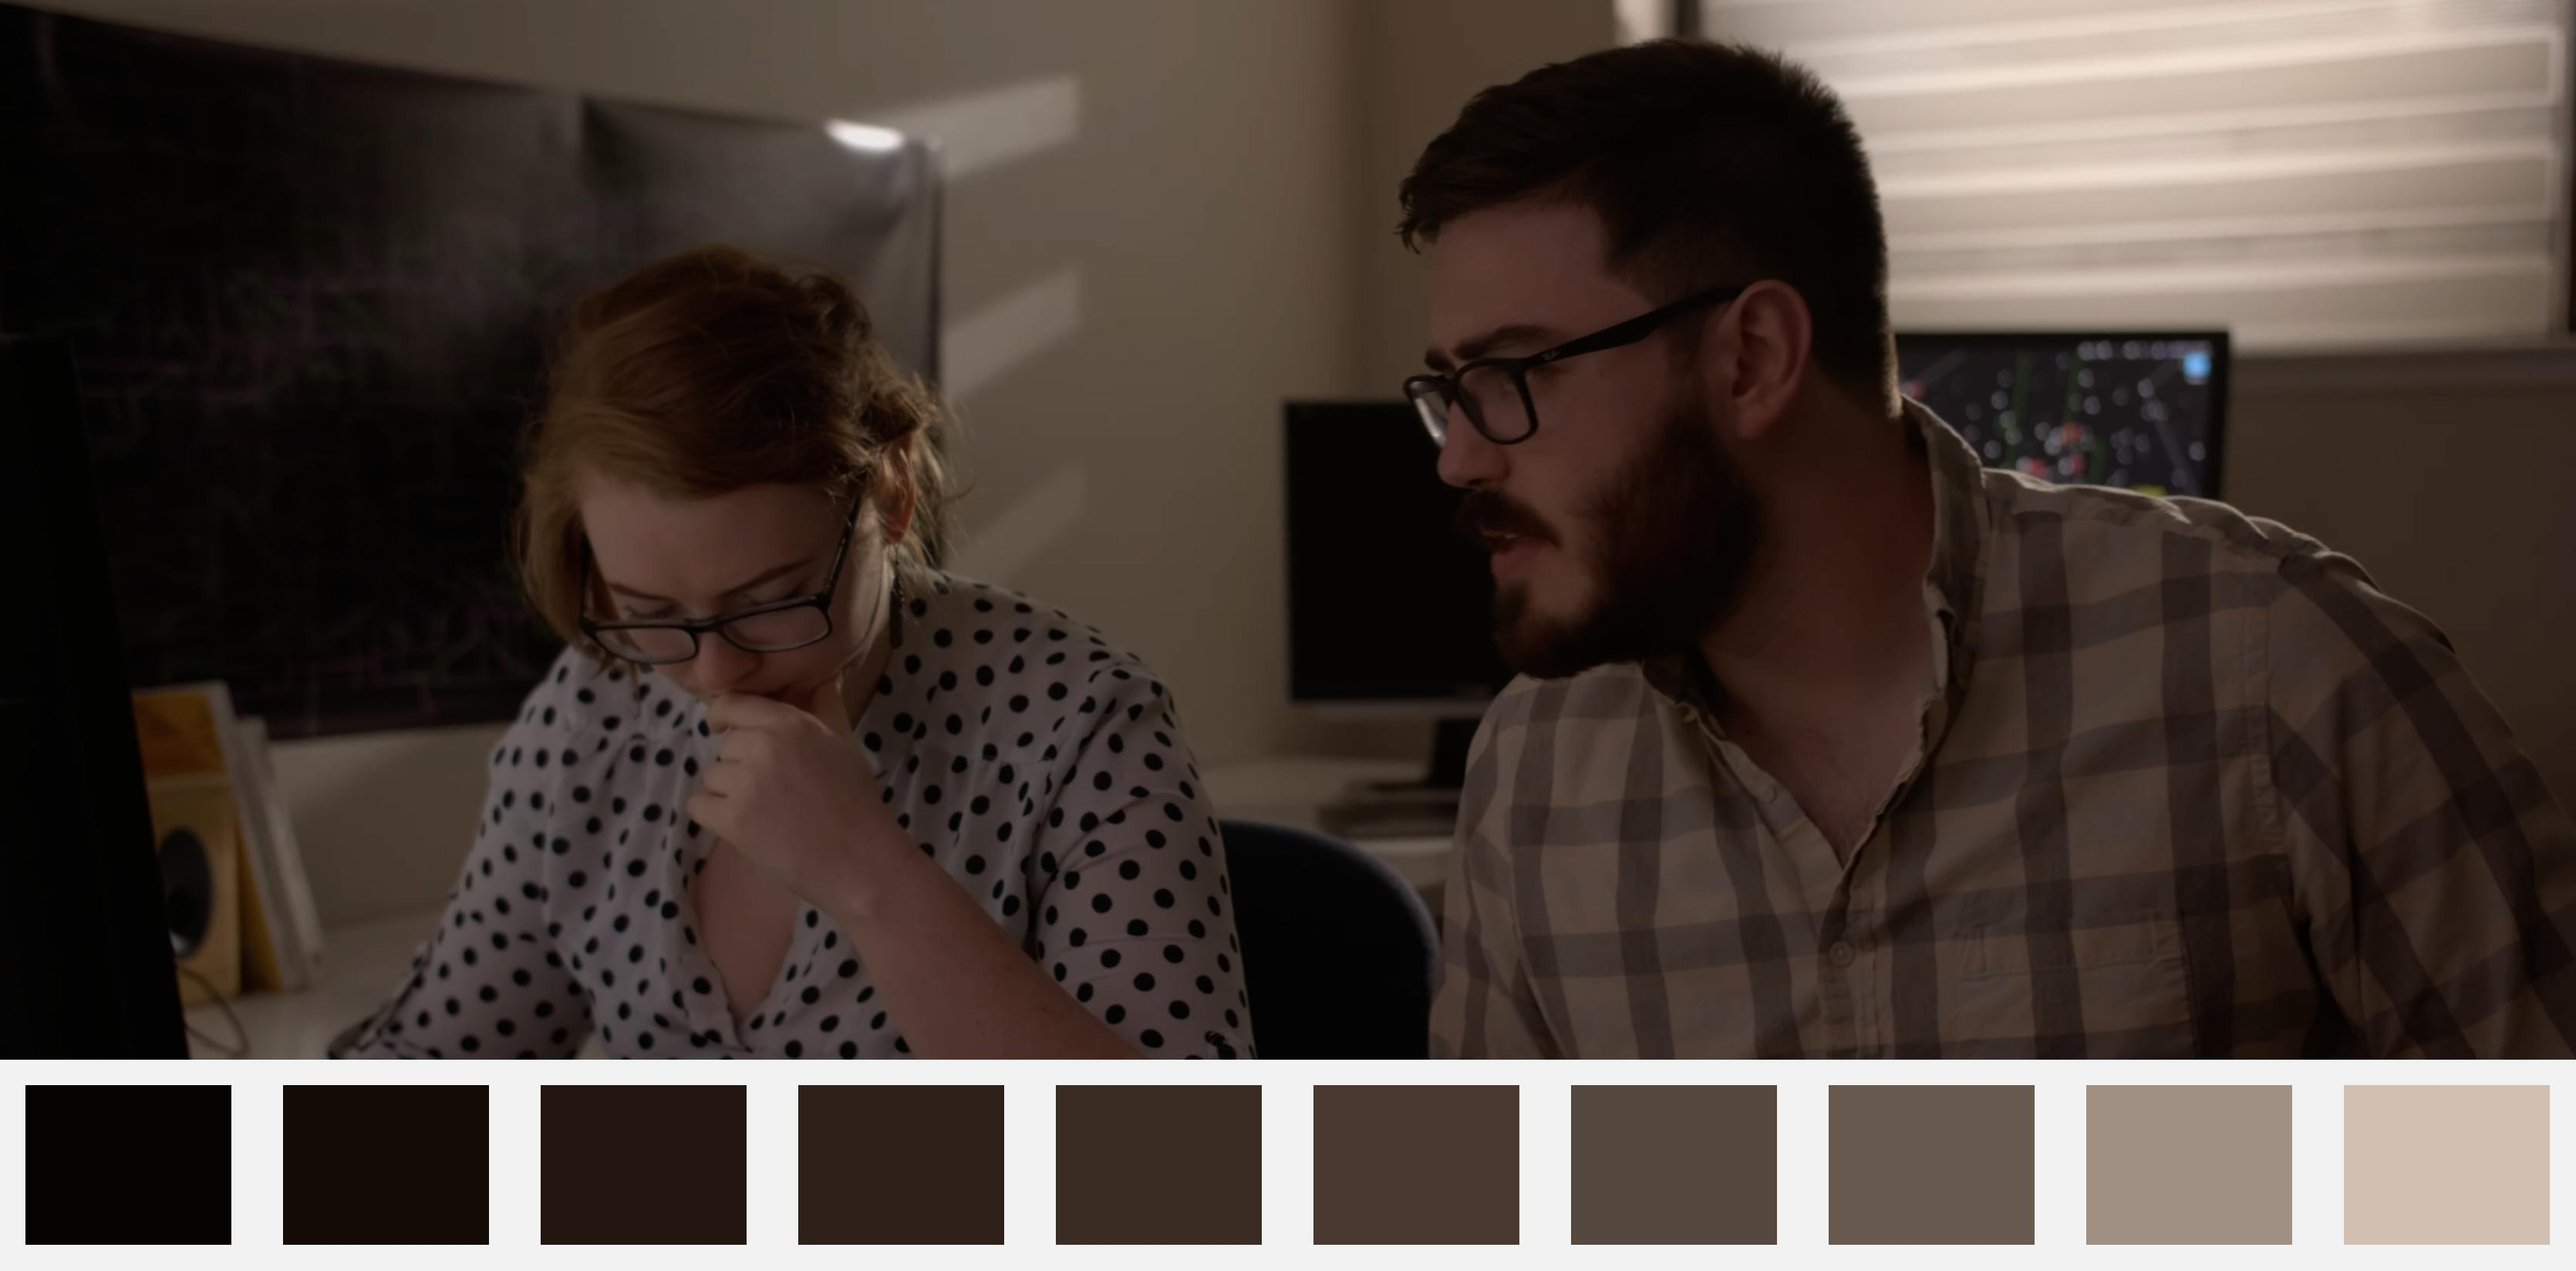
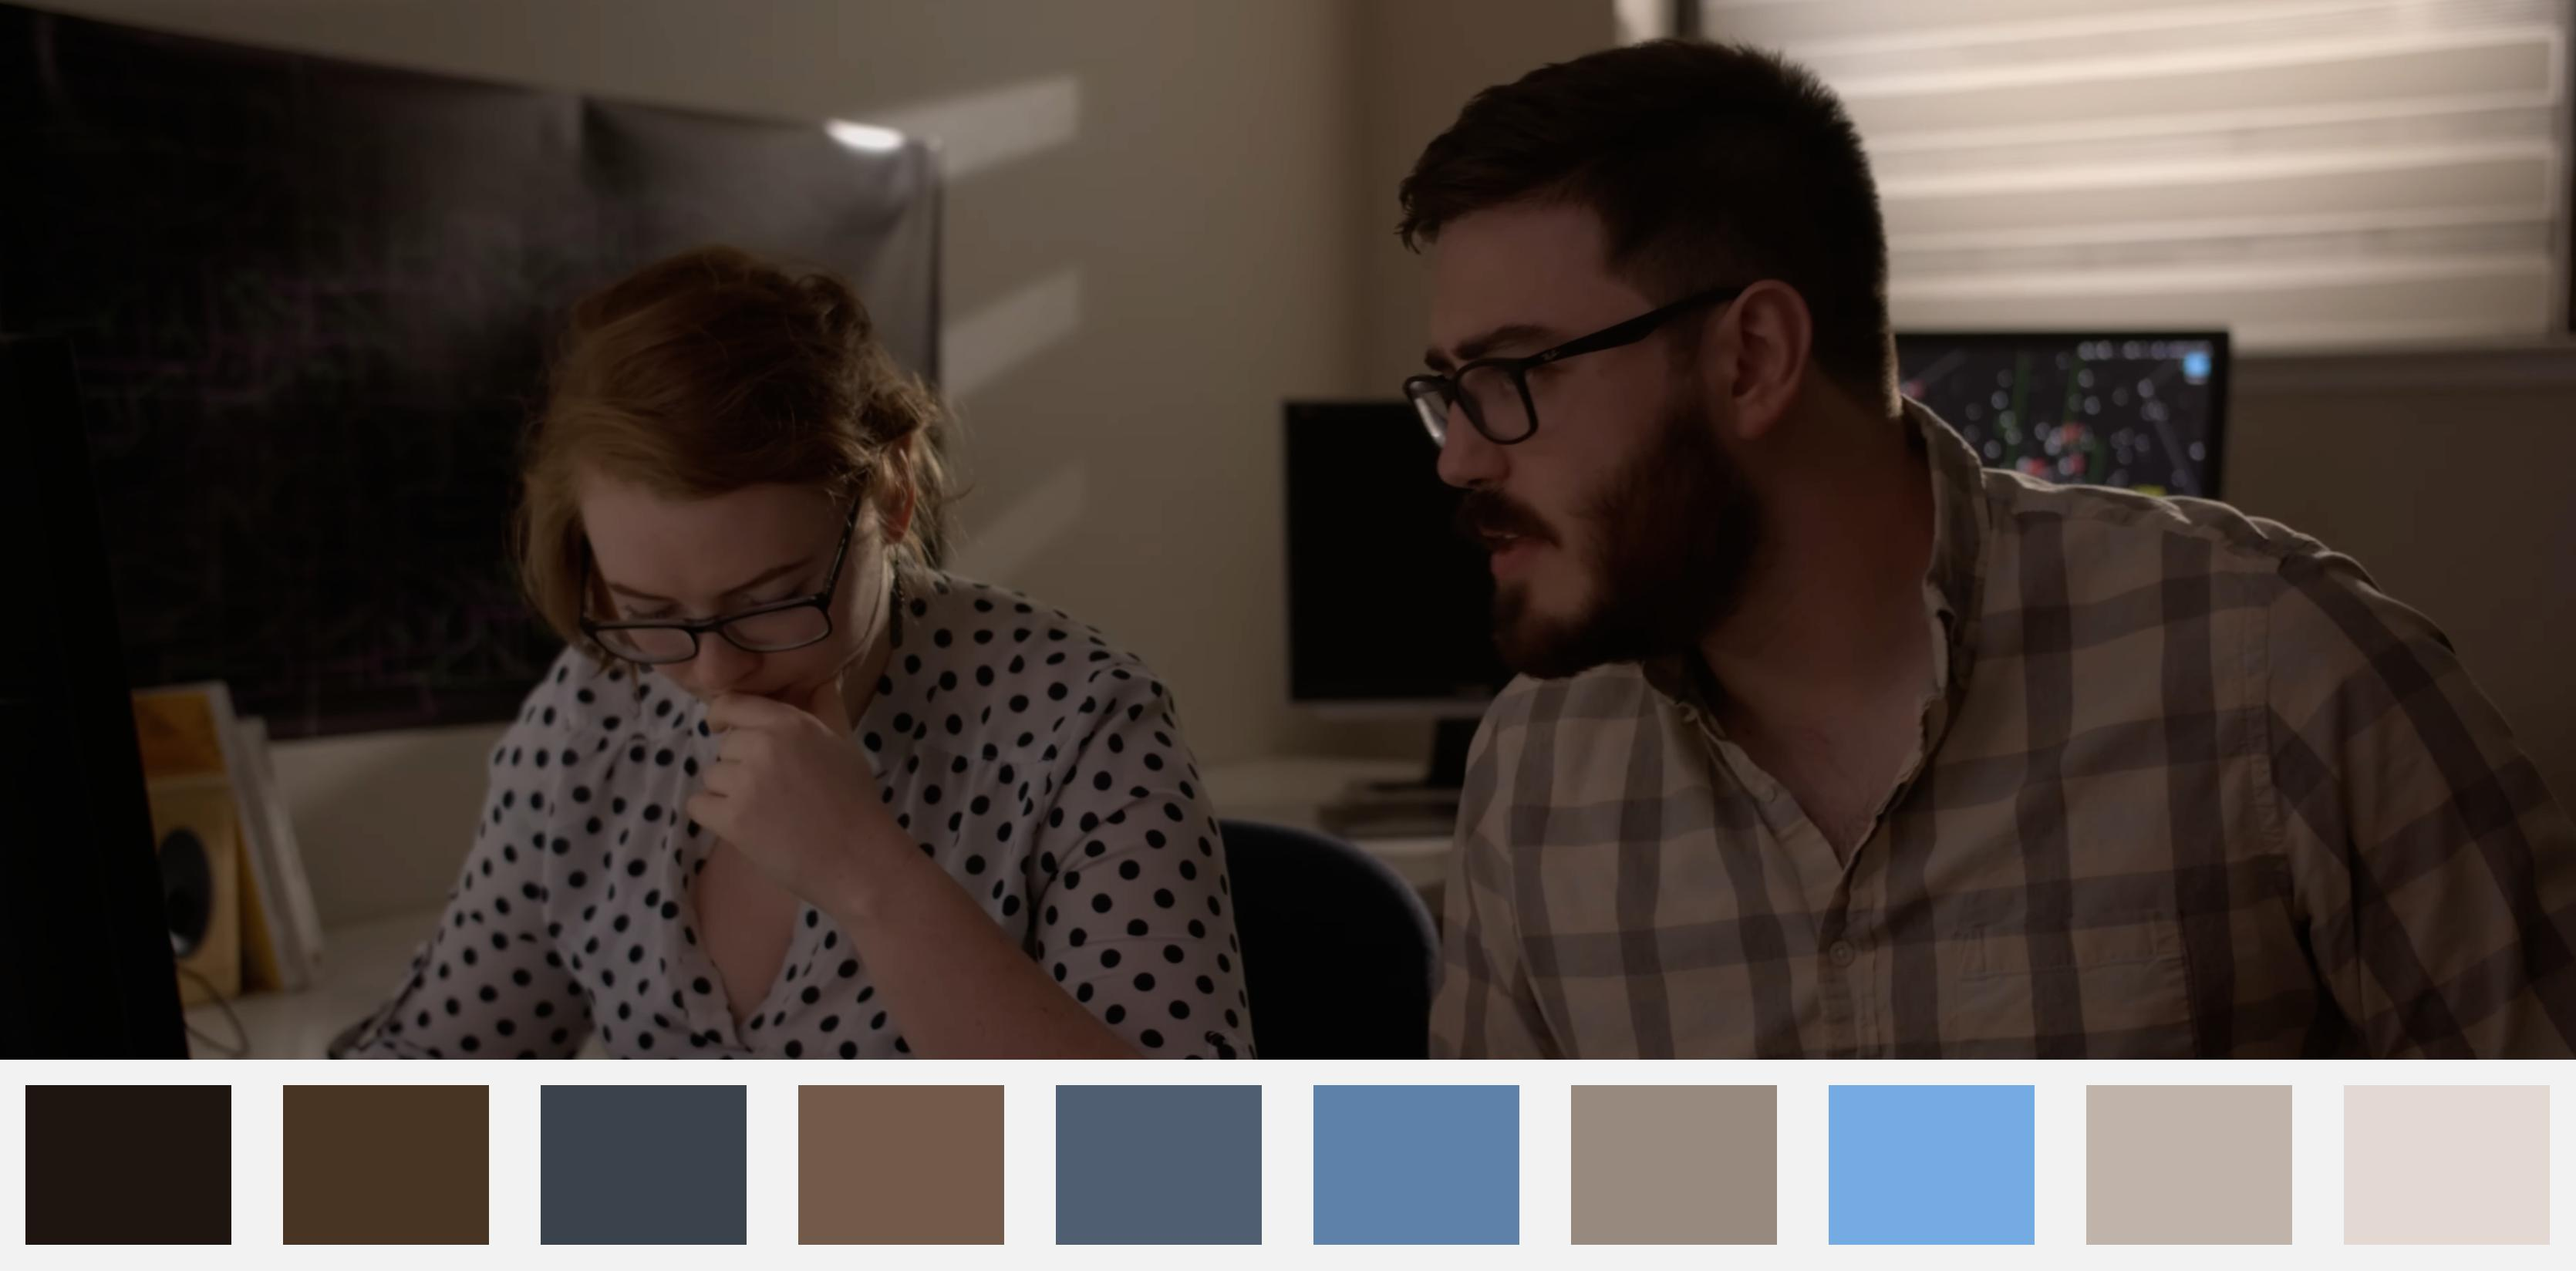
added some more ways to sample the colors, just for my future reference

Changed region(s): [[0.0, 0.8356, 0.9964, 0.9903]]

diff --git a/color_palette.py b/color_palette.py
@@ -1,7 +1,31 @@
 import imageio
 from sklearn.cluster import KMeans
+from sklearn.neighbors import KDTree
 import argparse
 import numpy as np
+import colorsys
+
+def subsample_points_by_space(points, side_dim):
+	# Make KD-Tree from points
+	nn = KDTree(points)
+	# Create num_samples query points evenly spaced across the RGB cube
+	max_val = np.max(points)
+	min_val = np.min(points)
+	side = np.linspace(min_val, max_val, side_dim)
+	interval = (max_val - min_val) / side_dim
+	lattice = cartesian_product(*[side, side, side])
+	# Sample nearest point in the image for each point in the lattice
+	d, i = nn.query(lattice, k=1, return_distance=True)
+	output_samples = points[i[d < interval]]
+	return output_samples
+
+def cartesian_product(*arrays):
+    la = len(arrays)
+    dtype = np.result_type(*arrays)
+    arr = np.empty([len(a) for a in arrays] + [la], dtype=dtype)
+    for i, a in enumerate(np.ix_(*arrays)):
+        arr[...,i] = a
+    return arr.reshape(-1, la)
 
 if __name__ == '__main__':
 	args = argparse.ArgumentParser()
@@ -33,13 +57,22 @@ if __name__ == '__main__':
 		action='store_true',
 		help='Use this flag to initialize kmeans with random colors',
 	)
+	args.add_argument(
+		'--sample_extreme_colors',
+		action='store_true',
+		help='Experimental method that tries to subsample the input image as evenly as possible within the RGB cube, therefore removing duplicate colors.'
+	)
+	args.add_argument(
+		'--hsv_initialization',
+		action='store_true',
+		help='Initialize KMeans using colors distributed by hue rather than by luminance',
+	)
 	args = args.parse_args()
 	fn = args.file
 	if args.out_file is None:
 		out_fn = f'{fn[:-4]}_palatte.jpg'
 	else:
 		out_fn = args.out_file
-
 
 	# Read image
 	img = imageio.imread(fn)
@@ -48,30 +81,41 @@ if __name__ == '__main__':
 	assert img.shape[-1] == 3, f'Bad shape! {img.shape}'
 	i_H, i_W, i_C = img.shape
 	o_H, o_W, o_C = int(i_H*1.2), i_W, i_C
-	print(img.dtype)
+	print(f'Image format: {img.dtype}')
 
 	# Set up kmeans init so that there's hopefully a cluster
 	# for each luminance level
+	lum = np.mean(img, axis=-1).flatten()
+	min_lum = np.min(lum)
+	max_lum = np.max(lum)
 	if args.random_colors:
 		inits = 'random'
+	elif args.hsv_initialization:
+		hues = np.linspace(0, 1.0, args.num_colors)
+		inits = [list(colorsys.hsv_to_rgb(h, 1.0, 1.0)) for h in hues]
+		inits = np.array(inits) * max_lum
+		assert inits.shape == (args.num_colors, 3), f'Bad shape! {inits.shape}'
 	else:
-		lum = np.mean(img, axis=-1).flatten()
-		min_lum = np.min(lum)
-		max_lum = np.max(lum)
 		inits = np.linspace(min_lum, max_lum, args.num_colors, dtype=int)
 		inits = np.stack([inits, inits, inits], axis=1)
-		print(inits)
 		assert inits.shape == (args.num_colors, 3), f'Bad shape! {inits.shape}'
 
+	print('Sampling points....')
+	samples = img.reshape(i_H * i_W, i_C)
+	samples = samples[np.random.choice(samples.shape[0], 200000), :]
+	if args.sample_extreme_colors:
+		samples = subsample_points_by_space(samples, 16)
+
 	# Get colors
+	print(f'Getting {args.num_colors} best colors...')
 	kmeans = KMeans(
 		n_clusters=args.num_colors,
 		init=inits,
 		n_init=1,
-		verbose=1,
-	).fit(img.reshape(i_H * i_W, i_C))
+	).fit(samples)
 
 	# Sort colors darkest to brightest
+	print(f'Drawing image....')
 	palatte = kmeans.cluster_centers_
 	sort_order = np.argsort(np.mean(palatte, axis=-1))
 	palatte = palatte[sort_order, :]

diff --git a/README.md b/README.md
@@ -29,4 +29,7 @@ optional arguments:
   --margin MARGIN       size of the white margin around the color palette (as a fraction of the size of the color chip
   --out_file OUT_FILE   Specify to override the output filepath.
   --random_colors       Use this flag to initialize kmeans with random colors
+  --sample_extreme_colors
+                        Experimental method that tries to subsample the input image as evenly as possible within the RGB cube, therefore removing duplicate colors.
+  --hsv_initialization  Initialize KMeans using colors distributed by hue rather than by luminance
 ```
